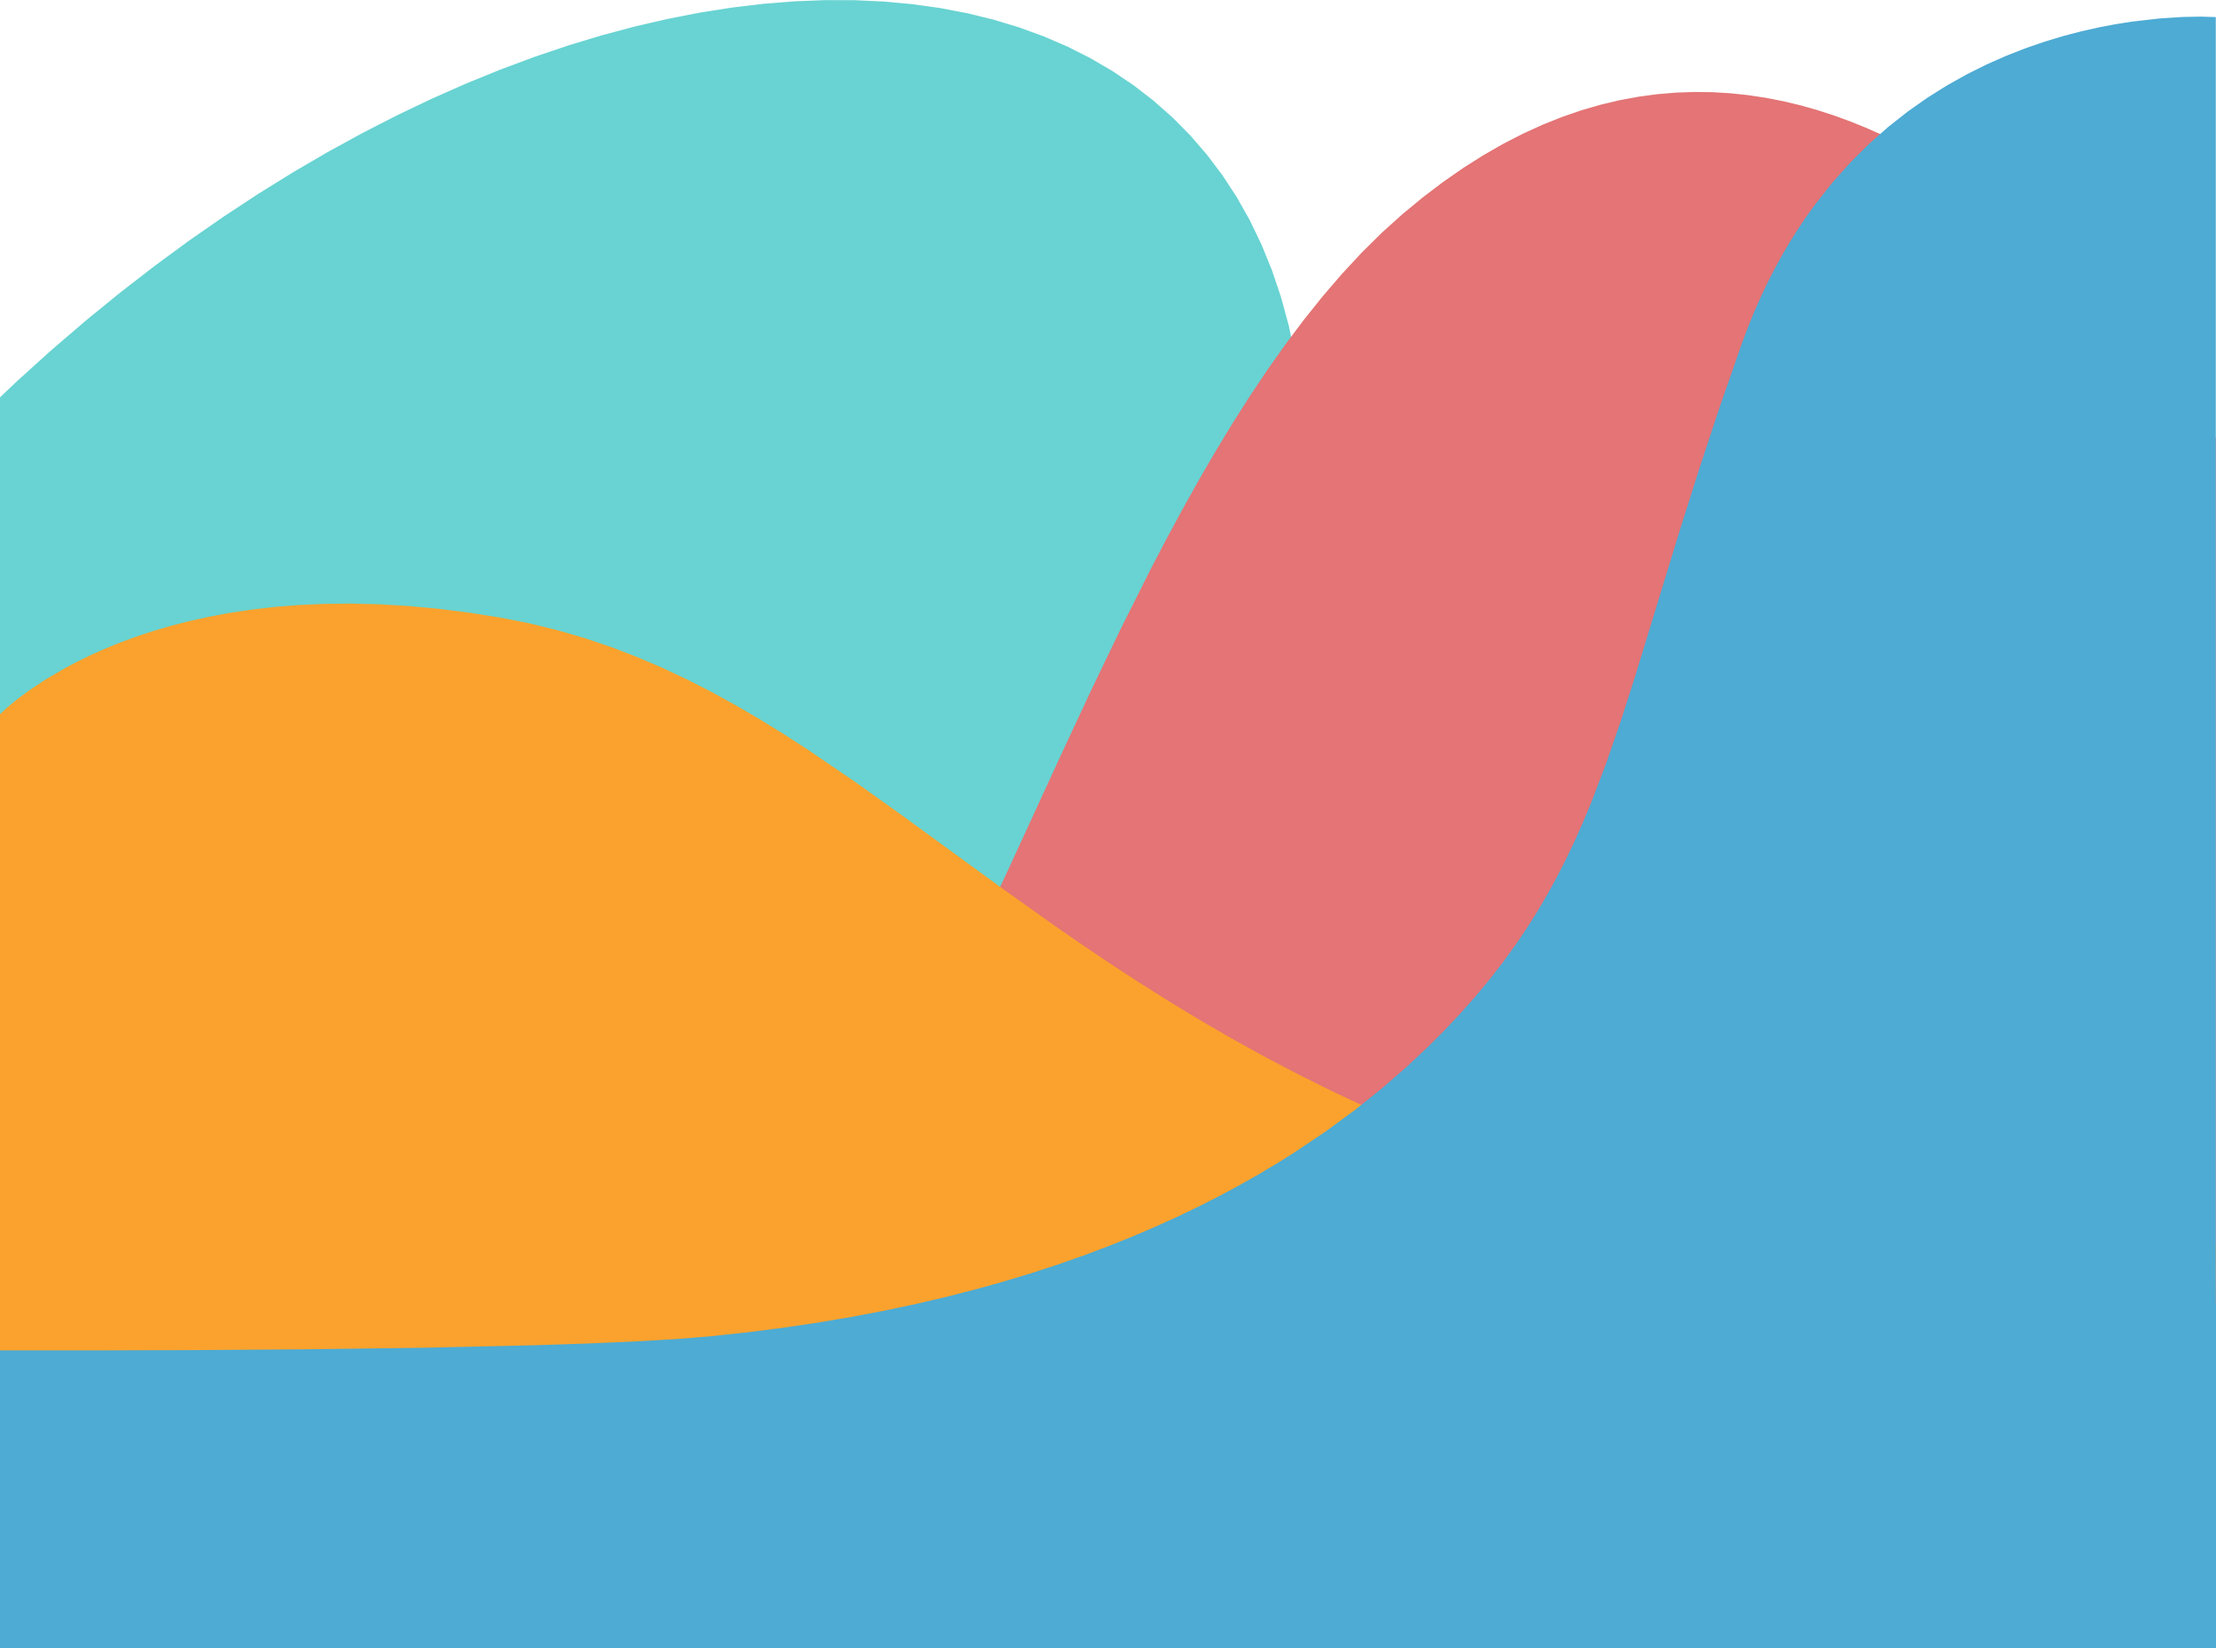
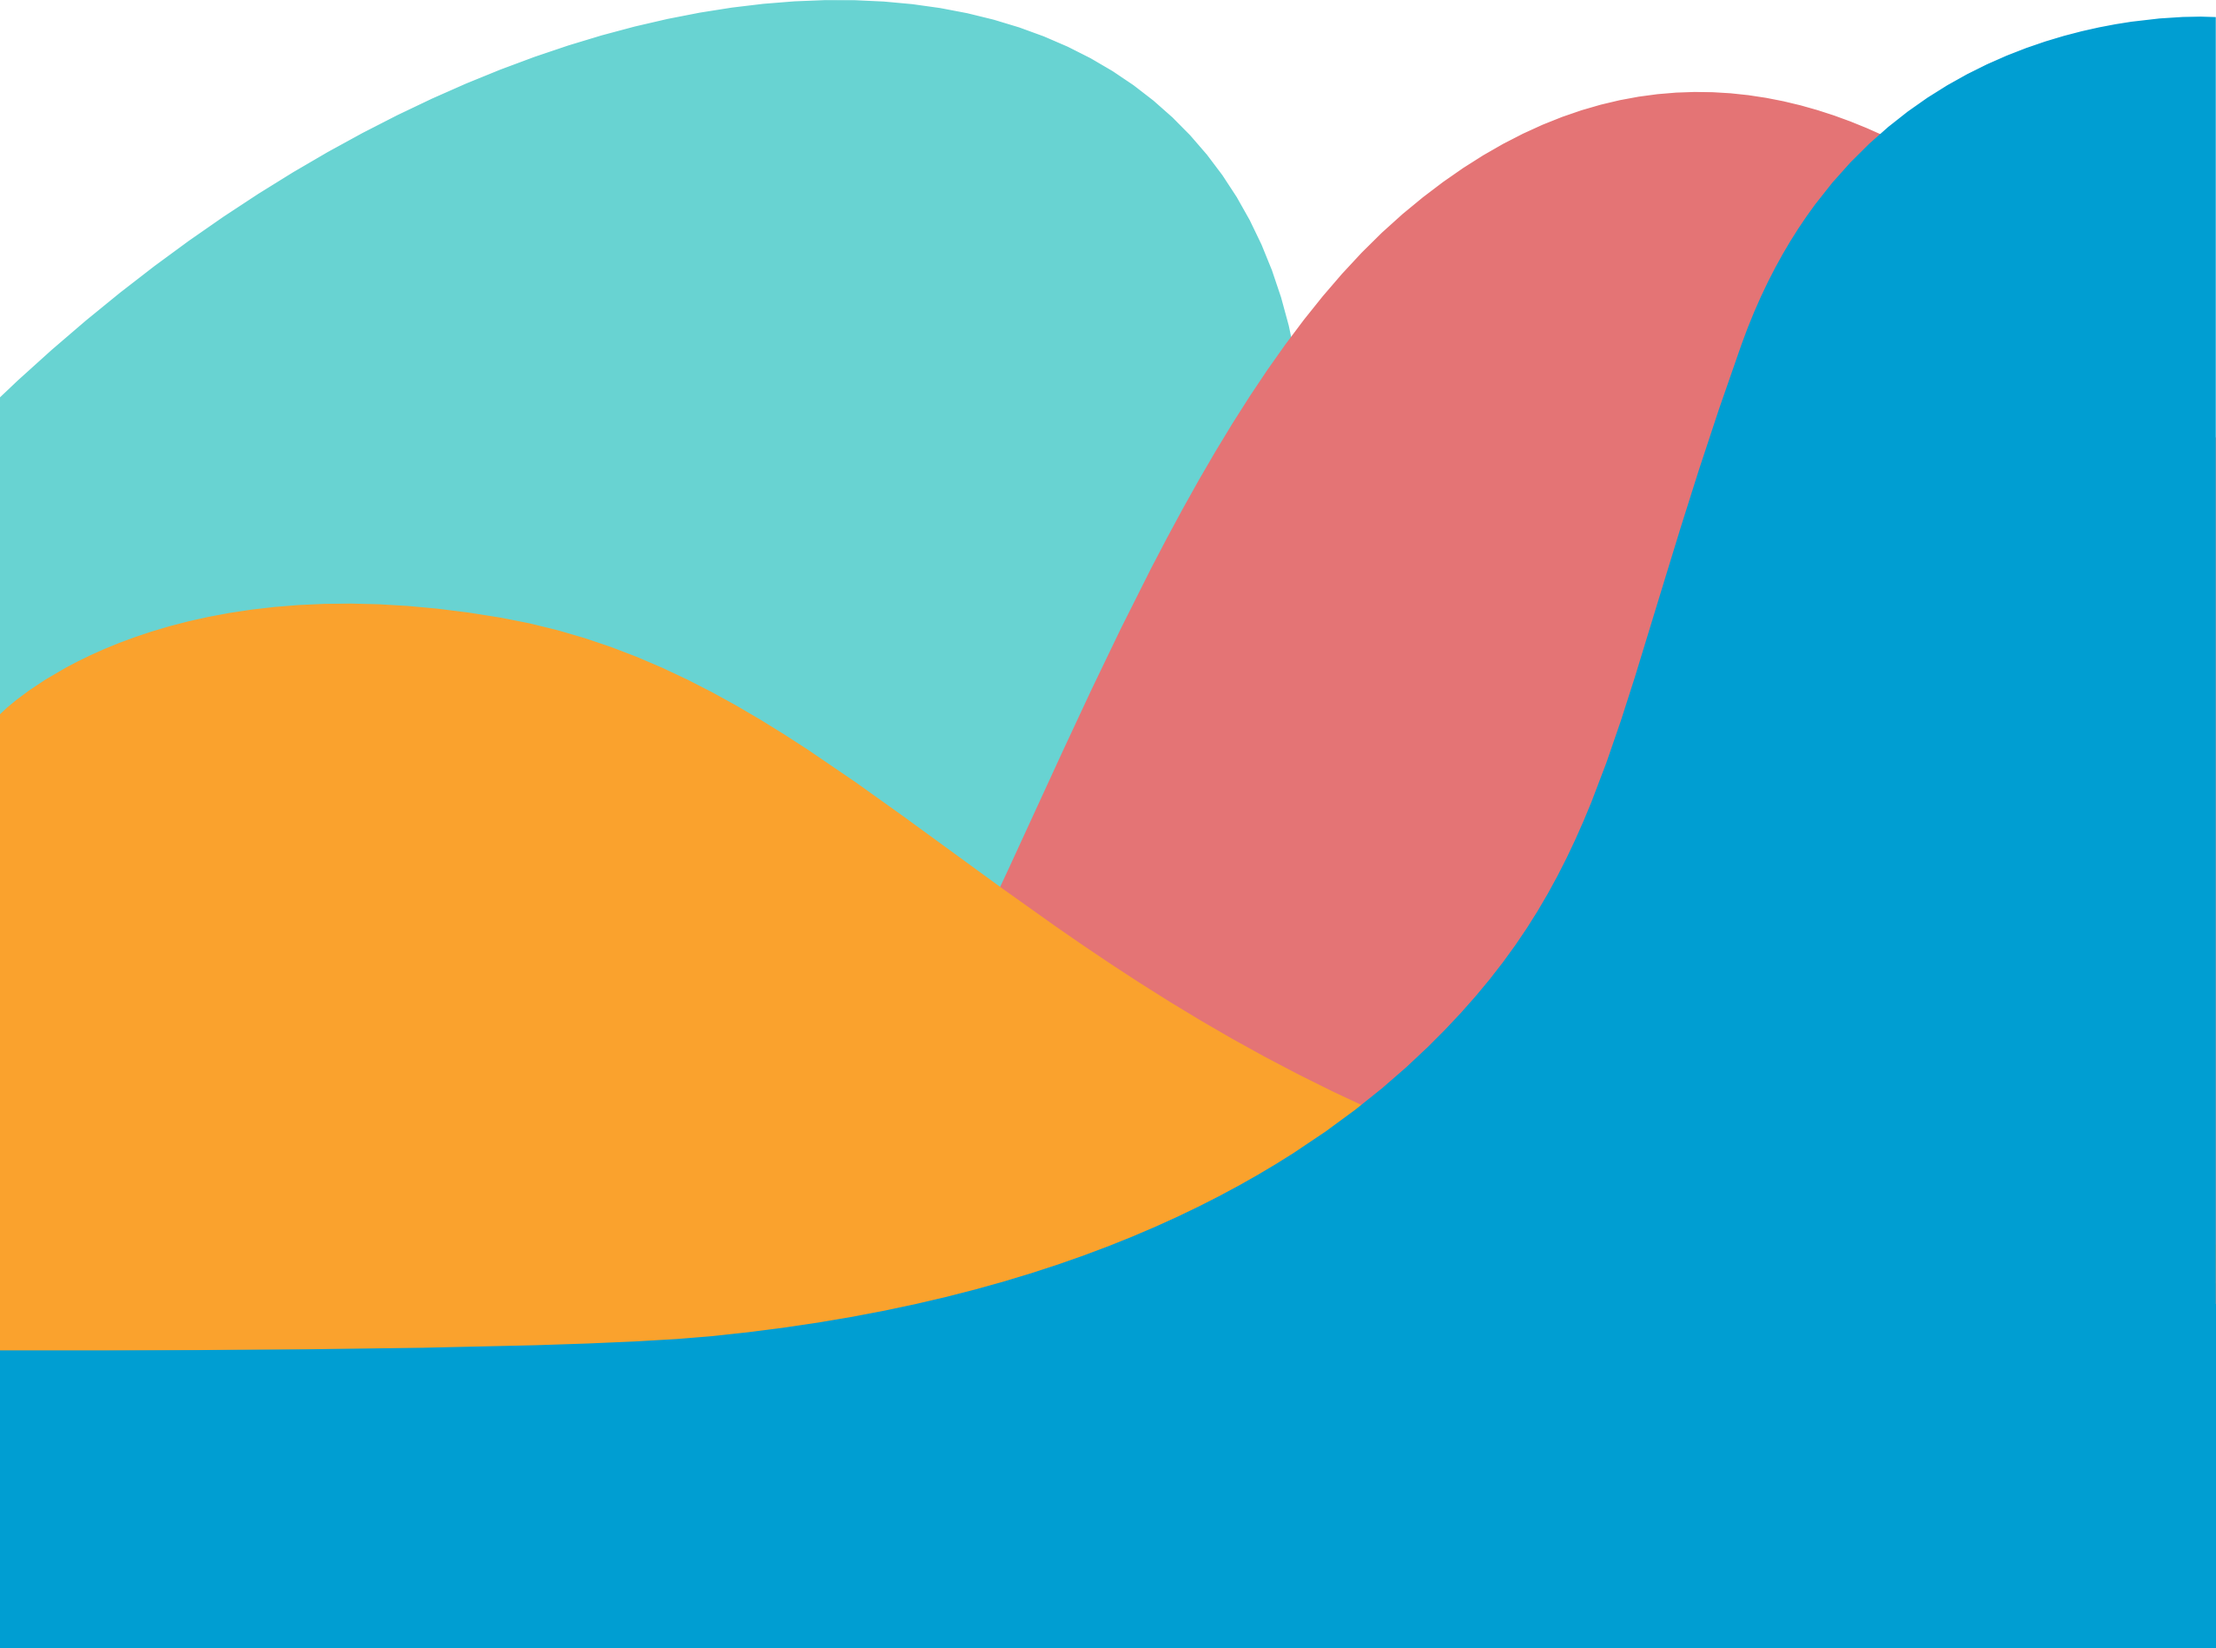
changing the background colors

diff --git a/src/styles/MobileNav.less b/src/styles/MobileNav.less
@@ -55,6 +55,7 @@
         text-align: center;
         margin-bottom: 50px;
         background-color: transparent;
+        font-family: 'Nanum Pen Script';
         
         &:hover {
             color: black;
@@ -116,8 +117,8 @@
                 display: block;
                 margin-left: auto;
                 margin-right: auto;
-                margin-bottom: 50px;
-                transform: scale(2);
+                margin-bottom: 80px;
+                transform: scale(1.8);
             }
 
             .primary-button {
@@ -139,15 +140,15 @@
             left: 0px;
             right: 0px;
             display: block;
-            font-size: 32px;
+            font-size: 34px;
             user-select: none;
             margin-left: auto;
             margin-right: auto;
             text-align: center;
-            margin-bottom: 50px;
+            margin-bottom: 40px;
 
             &:nth-of-type(1) {
-                margin-top: 100px;
+                margin-top: 130px;
             }
             &:nth-last-of-type(1) {
                 margin-bottom: 100px;

diff --git a/src/pages/FAQ.js b/src/pages/FAQ.js
@@ -23,7 +23,7 @@ export default function FAQ() {
         <CollectionView id='faq-items'
             orientation={CollectionView.Orientation.vertical}
             data={[
-                <Media query='(min-width: 768px)'>{matches => matches ?
+                <Media key='3' query='(min-width: 768px)'>{matches => matches ?
                     <h1 key='0'>Frequently Asked Questions</h1>
                     :
                     <h1 key='0'>FAQs</h1>

diff --git a/src/styles/Index.less b/src/styles/Index.less
@@ -1,9 +1,10 @@
 // Variables:
-@primary: #4DABD4;
-@red: #E47475;
-@blue: #4DABD4;
-@yellow: #FAA22D;
-@green: #68D3D2;
+@primary: #009ED2;
+@red: #F26C72;
+@blue: #009ED2;
+@yellow: #F99C1C;
+// @green: #68D3D2;
+@green: #6CCACD;
 
 .common-font {
     font-size: 18px;
